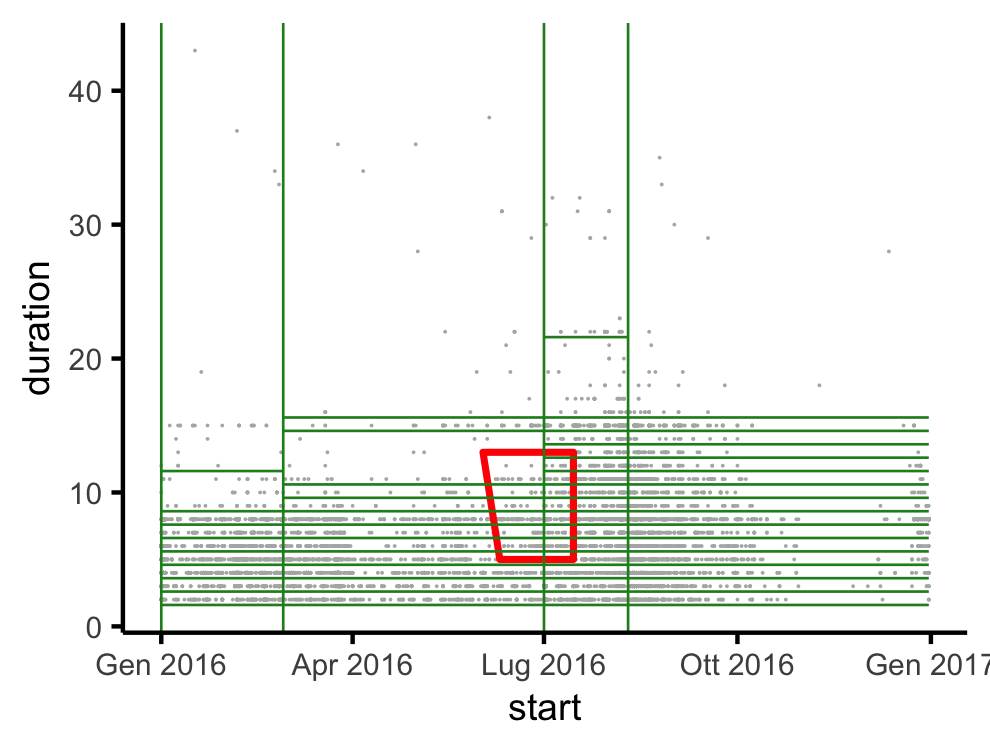
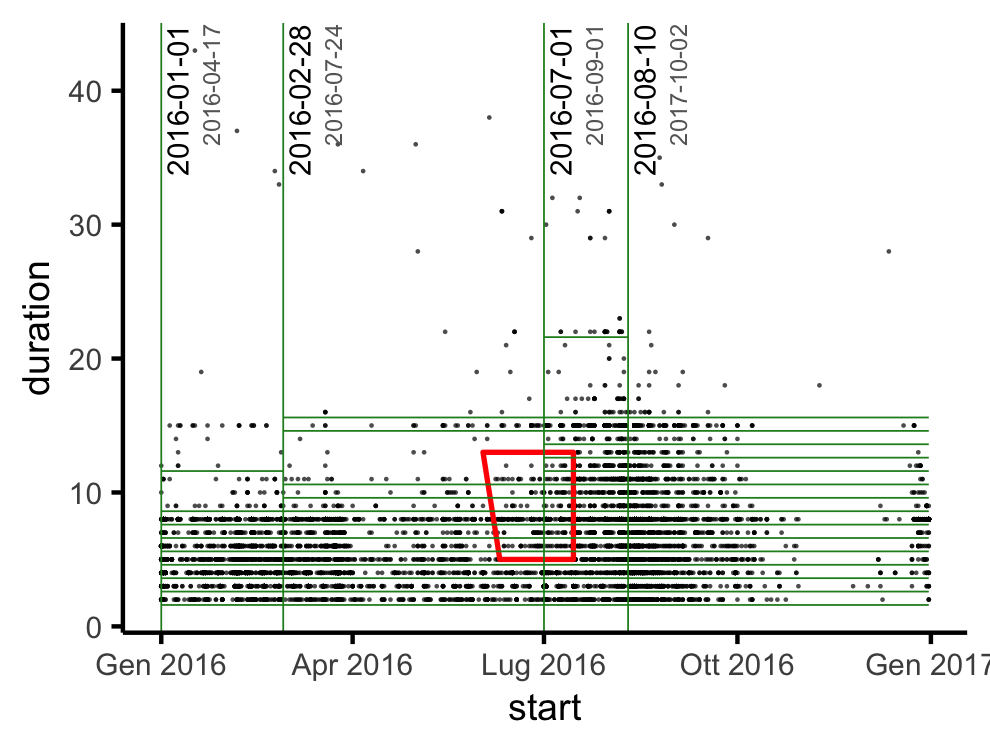
Update running example

diff --git a/paper/temporal-index.tex b/paper/temporal-index.tex
@@ -480,13 +480,7 @@ time.  A temporal relation $\R$ with schema $R$ is a finite set of
 tuples, where each tuple has a value in the appropriate domain for
 each attribute in the schema. We use $r.A_i$ to denote the value of
 attribute $A_i$ in tuple $r$, and $\rT = [\rTS, \rTE)$ to refer to its
-<<<<<<< HEAD
-time interval.
-% We use the abbreviations $\A = \{ \args{A}{m} \}$ and
-% $r.\A = (\args{r.A}{m})$.
-=======
 time interval. 
->>>>>>> Remove unused definitions, update scalability
 
 \subsection{Temporal Queries}
 
@@ -795,9 +789,8 @@ Finally, tuples in each cell are sorted by the end time.
 
 \begin{figure}
   \includegraphics[width=\columnwidth]{images/example-grid.png}
-  \caption{Instantiation of \rd with page size $s=50$ on the example dataset. 
-    \jg{It might be nice if we add to this figure the arrays col\_bounds, latest\_end, cell\_bounds, max\_durations along the x- and y-axis. We could even fill in the concrete values, I think.}
-	\mc{Yes, it would be nice, I'll think how to do it without cluttering the picture too much. It's already a bit crowded.}
+  \caption{Instantiation of \rdindex with page size $s=50$ on the example dataset. 
+    Each column is annotated with its boundary (larger date) and latest end time (smaller date).
 	\label{fig:example-grid}}
 \end{figure}
 
@@ -807,9 +800,12 @@ Finally, tuples in each cell are sorted by the end time.
   start times, adapting to the density of the points.
   Within each column, the points are partitioned according the the distribution of durations.
   In particular, since many stays have the same duration, the bottom cells of each column are \emph{heavy}, i.e. they contain more than $s=50$ tuples, all sharing the same duration.
-  
   In contrast, a uniform grid would suffer from a high imbalance in the number of
   tuples in each cell.
+
+  Note that the latest end time of each column is past the beginning of the following column.
+  This is the reason why we maintain the cumulative maximum end times in the array \LatestEnds, rather than the latest end time within each column.
+  Since this information is used to decide when to stop scanning columns at query time, as we shall see in the next section, considering only the latest end time within columns might imply that we stop too early the query, skipping some columns that contain matching tuples.
 \end{example}
 
 \subsection{Querying the Index}
